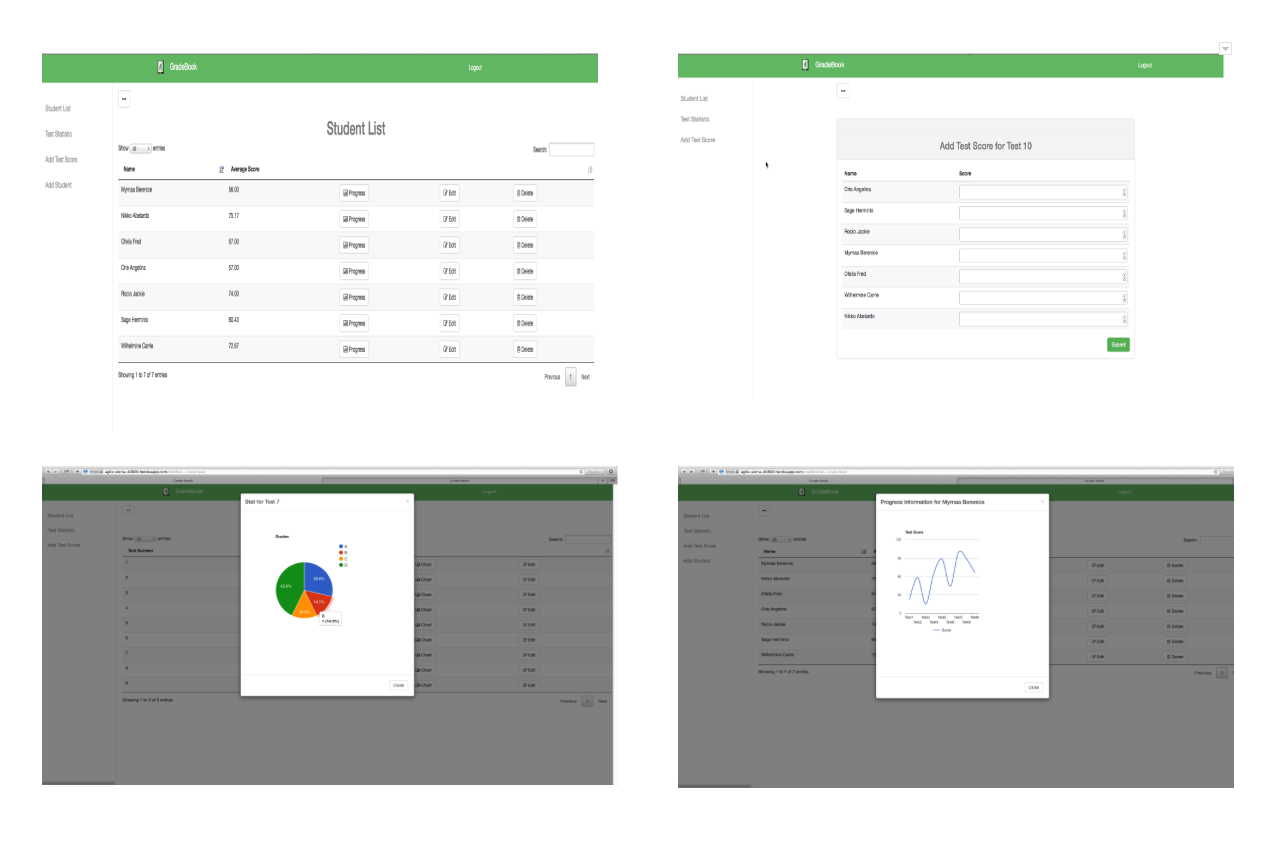
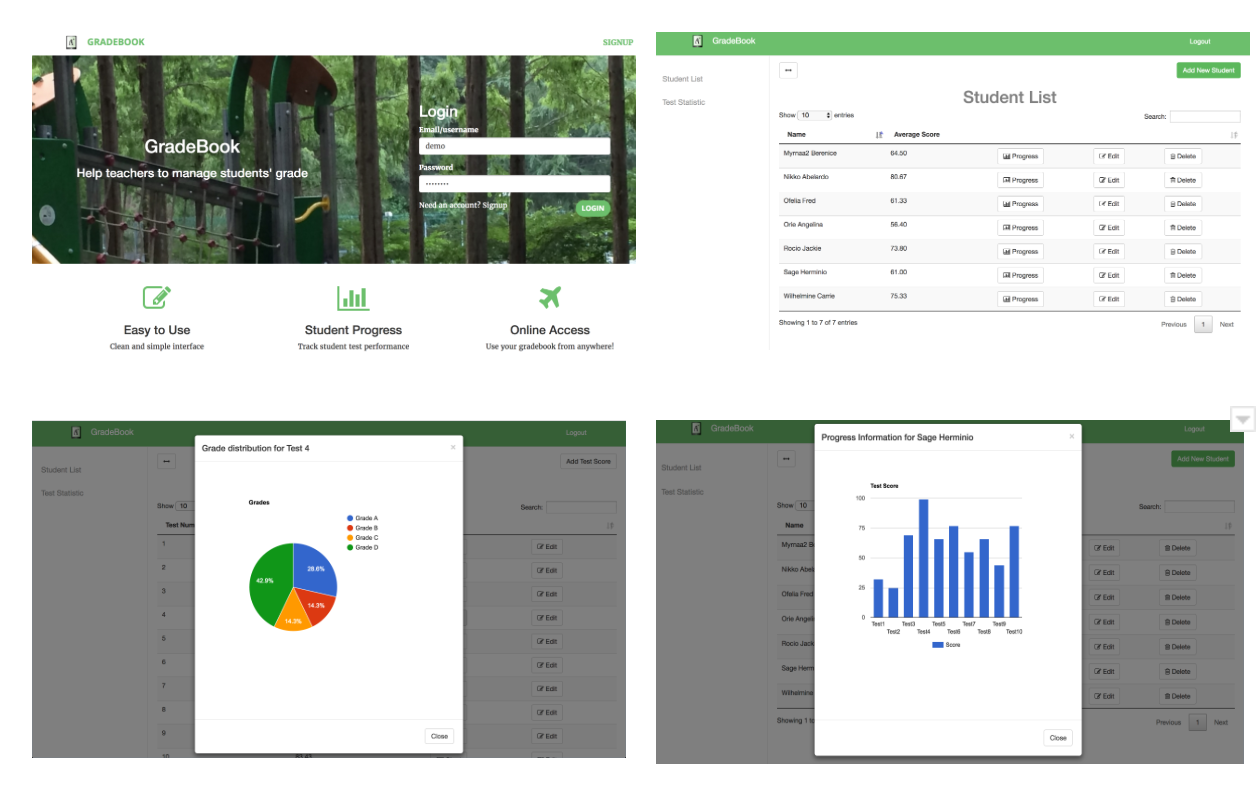
UI-fix

diff --git a/public/custom/home.css b/public/custom/home.css
@@ -1,66 +1,134 @@
-body {
-    overflow-x: hidden;
+html, body {
+	height: 100%;
+	width: 100%;
+	font-family: 'Merriweather', 'Helvetica Neue', Arial, sans-serif;
+}
+.navbar-default .navbar-header .navbar-brand {
+	color: #6cbf6c;
+	font-family: 'Open Sans', 'Helvetica Neue', Arial, sans-serif;
+	font-weight: 700;
+	text-transform: uppercase;
+}
+.navbar-default .navbar-header .navbar-brand:hover, .navbar-default .navbar-header .navbar-brand:focus {
+	color: green;
+}
+.navbar-default .nav>li>a, .navbar-default .nav>li>a:focus {
+	text-transform: uppercase;
+	font-weight: 700;
+	font-size: 15px;
+	color: #222222;
+}
+.navbar-default .nav>li>a:hover, .navbar-default .nav>li>a:focus:hover {
+	color: #6cbf6c;
+}
+.navbar-default .nav>li.active>a, .navbar-default .nav>li.active>a:focus {
+	color: #6cbf6c !important;
+	background-color: transparent;
+}
+.service-box p {
+	margin-bottom: 0;
+}
+.text-primary {
+	color: #6cbf6c;
+}
+.btn-primary {
+	color: white;
+	background-color: #6cbf6c;
+	border-color: #6cbf6c;
+	-webkit-transition: all 0.35s;
+	-moz-transition: all 0.35s;
+	transition: all 0.35s;
+}
+.btn {
+	font-family: 'Open Sans', 'Helvetica Neue', Arial, sans-serif;
+	border: none;
+	border-radius: 300px;
+	font-weight: 700;
+	text-transform: uppercase;
 }
 .breadcrumb {
-    position: relative;
-    width: 100%;
-    height: 450px;
-    color: white;
-    background: rgba(28, 36, 65, 0.93);
-    background: url('/img/bg.png');
-    background-size: cover;
+	height: auto;
+	overflow: hidden;
+	position: relative;
+	background-image: url('../img/bg.png');
+	opacity: 1;
+	background-size: cover;
+	color: white;
+	filter: alpha(opacity=100);
+	/* For IE8 and earlier */
 }
 a {
-    margin-top:
+	margin-top:
 }
 input, .input-group {
-    margin-bottom: 10px;
+	margin-bottom: 10px;
+}
+.btn-top {
+	margin-top: 230px;
 }
 .col-sm-6 {
-    margin-top: 50px;
+	margin-top: 50px;
 }
 .introHeader {
-    margin-top: 50px;
+	margin-top: 50px;
 }
 .transparent {
-    background-color: transparent;
-    border: 0;
+	background-color: transparent;
+	border: 0;
 }
 .navbar {
-    background: transparent;
+	background: transparent;
 }
 .navbar {
-    margin: 0;
-    border-width: 0px
+	margin: 0;
+	border-width: 0px
 }
 .panel {
-    padding: 50px;
+	padding: 50px;
 }
 .panel-body {
-    margin-left: 50px;
-    margin-right: 50px;
+	margin-left: 50px;
+	margin-right: 50px;
 }
 h1 {
-    margin-top: 150px;
+	margin-top: 150px;
 }
+
 .signup {
-    color: #fff;
-    background-color: #5cb85c;
-}
-@media only screen and (max-width: 700px) {
-    .introHeader, .col-sm-6 {
-        margin-top: 20px;
-    }
-    h3, h1 {
-        display: none;
-    }
+	color: #fff;
+	background-color: #5cb85c;
 }
 .navbar-brand {
-    color: black;
-    padding: 0px;
+	color: black;
+	padding: 0px;
 }
 .navbar-brand>img {
-    height: 100px;
-    padding: 10;
-    width: auto;
+	height: 100px;
+	padding: 10;
+	width: auto;
+}
+.navbar-toggle {
+    position: relative;
+    float: right;
+    padding: 9px 10px;
+    margin-top: 8px;
+    margin-right: 15px;
+    margin-bottom: 8px;
+    background-color: #6cbf6c;
+    border: 1px solid transparent;
+    border-radius: 4px;
+    text-transform: uppercase;
+}
+@media (min-width: 992px) {
+	.service-box {
+		margin: 20px auto 0;
+	}
+}
+@media only screen and (max-width: 700px) {
+	.introHeader, .col-sm-6 {
+		margin-top: 20px;
+	}
+	.intro {
+		display: none;
+	}
 }

diff --git a/public/js/testStat.js b/public/js/testStat.js
@@ -117,7 +117,7 @@ function statChart(id) {
 		url: 'testList/' + id,
 		method: 'GET',
 		success: function(data) {
-			document.getElementById('testStatLabel').innerHTML = ' Stat for Test ' + id;
+			document.getElementById('testStatLabel').innerHTML = ' Grade distribution for Test ' + id;
 			drawTestChart(data.testScores);
 		},
 		error: function(XMLHttpRequest, textStatus, errorThrown) {
@@ -152,14 +152,23 @@ function drawTestChart(exam) {
 		}
 		var data = google.visualization.arrayToDataTable([
 			['Grades', 'Number of students'],
-			['A', grade['A']],
-			['B', grade['B']],
-			['C', grade['C']],
-			['D', grade['D']]
+			['Grade A', grade['A']],
+			['Grade B', grade['B']],
+			['Grade C', grade['C']],
+			['Grade D', grade['D']]
 		]);
+		var screenSize = $( window ).width();
+		var chartWidth ;
+		if (screenSize >800){
+			chartWidth = 500;
+		}
+		else {
+			chartWidth = 350;
+		}
+
 		var options = {
 			title: 'Grades',
-			'width': 500,
+			'width': chartWidth,
 			'height': 500
 		};
 		var chart = new google.visualization.PieChart(document.getElementById('curve_chart'));

diff --git a/public/js/studentList.js b/public/js/studentList.js
@@ -124,16 +124,26 @@ function drawGradeChart(studentGrade) {
 			data.setCell(i, 0, 'Test' + Number(studentGrade[i].testNumber));
 			data.setCell(i, 1, Number(studentGrade[i].testScore));
 		}
+
+		var screenSize = $( window ).width();
+		var chartWidth ;
+		if (screenSize >800){
+			chartWidth = 530;
+		}
+		else {
+			chartWidth = 350;
+		}
+
 		var options = {
 			title: 'Test Score',
 			curveType: 'function',
 			legend: {
 				position: 'bottom'
 			},
-			'width': 400,
+			'width': chartWidth,
 			'height': 400
 		};
-		var chart = new google.visualization.LineChart(document.getElementById('curve_chart'));
+		var chart = new google.visualization.ColumnChart(document.getElementById('curve_chart'));
 		chart.draw(data, options);
 	}
 }

diff --git a/public/custom/custom-nav.css b/public/custom/custom-nav.css
@@ -22,15 +22,16 @@ nav.navbar {
     background-color: #5cb85c;
 }
 
-.navbar-default .navbar-nav>.active>a, .navbar-default .navbar-nav>.active>a:hover, .navbar-default .navbar-nav>.active>a:focus {
+.navbar-default .navbar-nav>.active>a, 
+.navbar-default .navbar-nav>.active>a:hover, 
+.navbar-default .navbar-nav>.active>a:focus {
     background-color: transparent;
     margin-top: 5px;
     color: white;
 }
 
 .navbar-default {
-background-color: #6cbf6c;
-    //border-bottom:  solid #6cbf6c;
+    background-color: #6cbf6c;
 }
 
 .navbar-nav > li > a, .navbar-brand {

diff --git a/public/custom/simple-sidebar.css b/public/custom/simple-sidebar.css
@@ -103,8 +103,17 @@
     color: grey;
     background: none;
 }
-
+.btn-top{
+  margin-top: 50px;
+}
+h1 {
+  margin-bottom: 50px;
+  margin-top: 20px;
+}
 @media(min-width:768px) {
+  h1 {
+      margin-bottom :10px;
+    }
     #wrapper {
         padding-left: 250px;
     }
